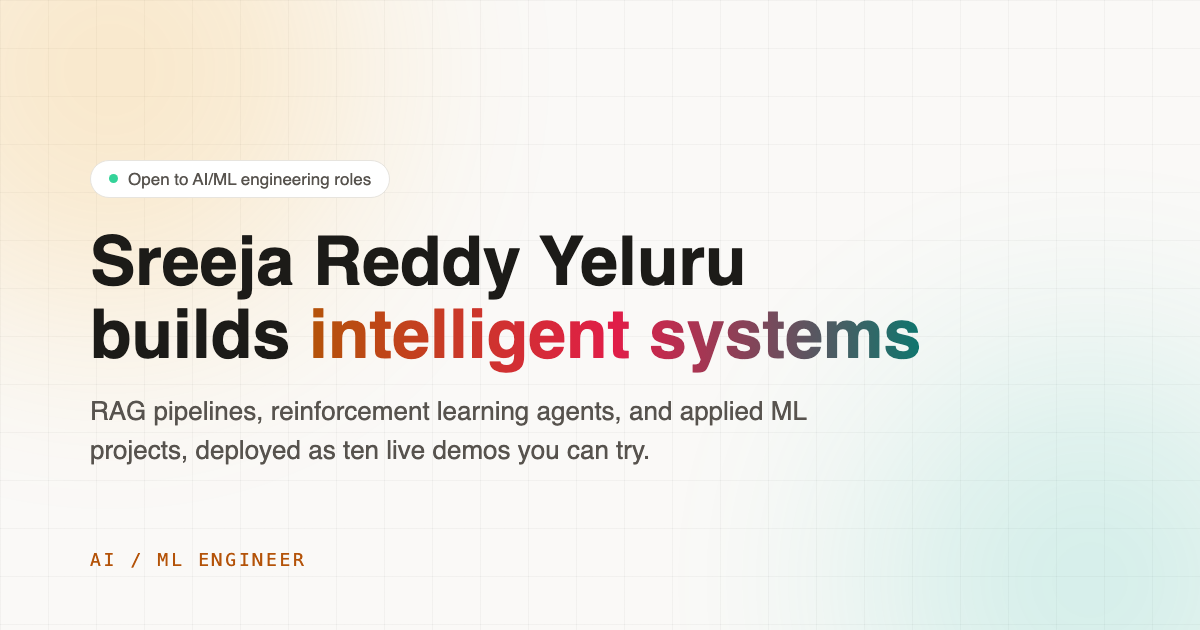
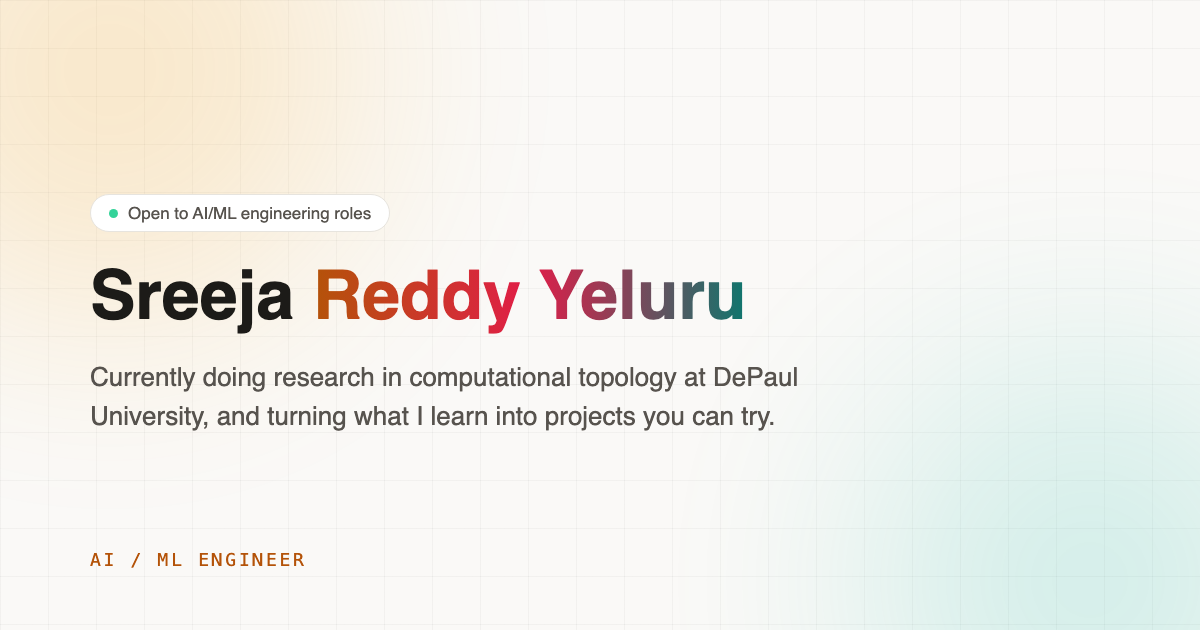
fix: meta description and OG image use exact approved first-person copy, not generic rewrite

Changed region(s): [[0.0617, 0.2413, 0.7708, 0.754]]

diff --git a/index.html b/index.html
@@ -8,16 +8,16 @@
     <meta name="theme-color" content="#0b0d10" media="(prefers-color-scheme: dark)" />
 
     <title>Sreeja Reddy Yeluru | AI/ML Engineer</title>
-    <meta name="description" content="AI/ML engineer with a research background in computational topology. RAG pipelines, reinforcement learning agents, and applied ML projects, deployed as ten live demos you can try." />
+    <meta name="description" content="Currently doing research in computational topology at DePaul University, and turning what I learn into projects you can try." />
 
     <meta property="og:type" content="website" />
     <meta property="og:title" content="Sreeja Reddy Yeluru | AI/ML Engineer" />
-    <meta property="og:description" content="AI/ML engineer with a research background in computational topology. RAG pipelines, reinforcement learning agents, and applied ML projects, deployed as ten live demos you can try." />
+    <meta property="og:description" content="Currently doing research in computational topology at DePaul University, and turning what I learn into projects you can try." />
     <meta property="og:image" content="/og-image.png" />
 
     <meta name="twitter:card" content="summary_large_image" />
     <meta name="twitter:title" content="Sreeja Reddy Yeluru | AI/ML Engineer" />
-    <meta name="twitter:description" content="AI/ML engineer with a research background in computational topology. RAG pipelines, reinforcement learning agents, and applied ML projects, deployed as ten live demos you can try." />
+    <meta name="twitter:description" content="Currently doing research in computational topology at DePaul University, and turning what I learn into projects you can try." />
     <meta name="twitter:image" content="/og-image.png" />
 
     <script>
